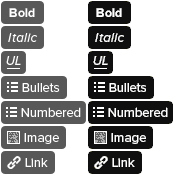
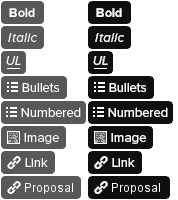
CKEditor plugin for proposal links

diff --git a/hooks/climatecolab-hooks/src/main/webapp/WEB-INF/jsps/html/js/editor/ckeditor_old/skins/colab/editor.css b/hooks/climatecolab-hooks/src/main/webapp/WEB-INF/jsps/html/js/editor/ckeditor_old/skins/colab/editor.css
@@ -12,3 +12,4 @@ For licensing, see LICENSE.html or http://ckeditor.com/license
 .cke_skin_colab .cke_button_selectAll .cke_icon{background-position:0 -272px;}.cke_skin_colab .cke_button_removeFormat .cke_icon{background-position:0 -288px;}.cke_skin_colab .cke_button_bold .cke_icon{background-position: 0px 0px; width: 45px;}.cke_skin_colab .cke_button_italic .cke_icon{background-position: 0px -25px; width: 45px;}.cke_skin_colab .cke_button_underline .cke_icon{background-position: 0px -50px; width: 27px;}.cke_skin_colab .cke_button_strike .cke_icon{background-position:0 -352px;}.cke_skin_colab .cke_button_subscript .cke_icon{background-position:0 -368px;}.cke_skin_colab .cke_button_superscript .cke_icon{background-position:0 -384px;}.cke_skin_colab .cke_button_table .cke_icon{background-position:0 -608px;}.cke_skin_colab .cke_button_horizontalrule .cke_icon{background-position:0 -624px;}.cke_skin_colab .cke_button_smiley .cke_icon{background-position:0 -640px;}.cke_skin_colab .cke_button_link .cke_icon{background-position: 0px -150px; width: 56px;}.cke_skin_colab .cke_button_unlink .cke_icon{background-position:0 -544px;}.cke_skin_colab .cke_button_anchor .cke_icon{background-position:0 -560px;}.cke_skin_colab .cke_button_image .cke_icon{background-position: 0px -125px; width: 67px;}.cke_skin_colab .cke_button_flash .cke_icon{background-position:0 -592px;}.cke_skin_colab .cke_button_specialchar .cke_icon{background-position:0 -656px;}.cke_skin_colab .cke_button_pagebreak .cke_icon{background-position:0 -672px;}.cke_skin_colab .cke_button_print .cke_icon{background-position:0 -176px;}.cke_skin_colab .cke_button_checkspell .cke_icon,.cke_skin_colab .cke_button_scayt .cke_icon{background-position:0 -192px;}.cke_skin_colab .cke_button_pagebreak .cke_icon{background-position:0 -672px;}.cke_skin_colab .cke_button_textcolor .cke_icon{background-position:0 -704px;}.cke_skin_colab .cke_button_bgcolor .cke_icon{background-position:0 -720px;}.cke_skin_colab .cke_button_form .cke_icon{background-position:0 -752px;}.cke_skin_colab .cke_button_checkbox .cke_icon{background-position:0 -768px;}.cke_skin_colab .cke_button_radio .cke_icon{background-position:0 -784px;}.cke_skin_colab .cke_button_textfield .cke_icon{background-position:0 -800px;}.cke_skin_colab .cke_button_textarea .cke_icon{background-position:0 -816px;}.cke_skin_colab .cke_button_showblocks .cke_icon{background-position:0 -1136px;}.cke_skin_colab .cke_button_select .cke_icon{background-position:0 -832px;}.cke_skin_colab .cke_button_button .cke_icon{background-position:0 -848px;}.cke_skin_colab .cke_button_imagebutton .cke_icon{background-position:0 -864px;}.cke_skin_colab .cke_button_hiddenfield .cke_icon{background-position:0 -880px;}.cke_skin_colab .cke_button_undo .cke_icon{background-position:0 -208px;}.cke_skin_colab .cke_rtl .cke_button_undo .cke_icon{background-position:0 -224px;}.cke_skin_colab .cke_button_redo .cke_icon{background-position:0 -224px;}.cke_skin_colab .cke_rtl .cke_button_redo .cke_icon{background-position:0 -208px;}.cke_skin_colab .cke_button_templates .cke_icon{background-position:0 -80px;}.cke_skin_colab .cke_button_numberedlist .cke_icon{background-position: 0px -100px; width: 87px;}.cke_skin_colab .cke_button_bulletedlist .cke_icon{background-position: 0px -75px; width: 68px;}.cke_skin_colab .cke_mixed_dir_content .cke_button_numberedlist .cke_icon{background-position:0 -1217px;}.cke_skin_colab .cke_mixed_dir_content .cke_button_bulletedlist .cke_icon{background-position:0 -1233px;}.cke_skin_colab .cke_button_outdent .cke_icon{background-position:0 -432px;}.cke_skin_colab .cke_button_indent .cke_icon{background-position:0 -448px;}.cke_skin_colab .cke_mixed_dir_content .cke_button_indent .cke_icon{background-position:0 -1265px;}.cke_skin_colab .cke_mixed_dir_content .cke_button_outdent .cke_icon{background-position:0 -1249px;}.cke_skin_colab .cke_button_justifyleft .cke_icon{background-position:0 -464px;}.cke_skin_colab .cke_button_justifycenter .cke_icon{background-position:0 -480px;}.cke_skin_colab .cke_button_justifyright .cke_icon{background-position:0 -496px;}.cke_skin_colab .cke_button_justifyblock .cke_icon{background-position:0 -512px;}.cke_skin_colab .cke_button_blockquote .cke_icon{background-position:0 -1152px;}.cke_skin_colab .cke_button_creatediv .cke_icon{background-position:0 -1168px;}
 .cke_skin_colab .cke_button_editdiv .cke_icon{background-position:0 -1184px;}.cke_skin_colab .cke_button_removediv .cke_icon{background-position:0 -1200px;}.cke_skin_colab .cke_button_flash .cke_icon{background-position:0 -592px;}.cke_skin_colab .cke_button_pastefromword .cke_icon{background-position:0 -160px;}.cke_skin_colab .cke_button_save .cke_icon{background-position:0 -32px;}.cke_skin_colab .cke_button_about .cke_icon{background-position:0 -736px;}.cke_skin_colab .cke_button_maximize .cke_icon{background-position:0 -1040px;}.cke_skin_colab .cke_button_editdiv .cke_icon{background-position:0 -1184px;}.cke_skin_colab .cke_button_bidirtl .cke_icon{background-position:0 -1072px;}.cke_skin_colab .cke_button_bidiltr .cke_icon{background-position:0 -1056px;}.cke_skin_colab .cke_button_iframe .cke_icon{background-position:0 -1279px;}.cke_skin_colab .cke_button_source .cke_label{display:inline;}.cke_skin_colab .cke_styles_panel{width:150px;height:170px;}.cke_skin_colab .cke_format_panel{width:150px;height:170px;}.cke_skin_colab .cke_font_panel{width:150px;height:170px;}.cke_skin_colab .cke_fontSize_panel{height:170px;}.cke_skin_colab .cke_fontSize .cke_text{width:25px;}.cke_skin_colab .cke_browser_iequirks .cke_fontSize .cke_text{width:32px;}html .cke_skin_colab{visibility:inherit;}html.cke_skin_colab_container{visibility:visible;}
 .cke_skin_colab .cke_editor .cke_toolbar {display: none;} .cke_skin_colab .cke_focus .cke_editor .cke_toolbar {display: block;}
+.cke_skin_colab .cke_button_proposalLink .cke_icon{background-position: 0px -175px; width: 83px;}

diff --git a/portlets/proposals-portlet/src/main/webapp/js/proposalPicker.js b/portlets/proposals-portlet/src/main/webapp/js/proposalPicker.js
@@ -119,13 +119,25 @@ function removePickedProposal(sectionId,proposalId,element, multipleProposals){
 function addToProposalPickerTable(data, even){
     // get ID's for highlighting
     var inputField = $("input[name='sectionsContent[" + currentSectionId + "]']");
-    var highlight = ($.inArray(data.id.toString(), inputField.val().split(','))>=0);
+    var highlight = false;
+    if (inputField.length > 0) {
+    	highlight = ($.inArray(data.id.toString(), inputField.val().split(','))>=0);
+    	
+    }
     var displayDate = (data.dateSubscribed != 0);
     var link = '<a href="javascript:;" class="selectProposalLink">choose</a>';
     var dateCol = '<td>' + dateTimeFormatter.date(data.dateSubscribed) + '</td>';
     var tableRow = $('<tr class="' + (even ? ' ui-datatable-even' : ' ui-datatable-odd') + (highlight ? ' ui-datatable-highlight' : '') + '"><td>' + data.contestName + '</td><td' + (displayDate ? '' : ' colspan="2"') + '>' + data.proposalName + '</td>' + (displayDate ? dateCol : '') + '<td style="text-align: center;">' + (highlight ? '' : link) + '</td></tr>');
     
     tableRow.find(".selectProposalLink").click(function() {
+    	var event = jQuery.Event("proposalPicker_proposalSelected", {
+    		contestId: data.contestId,
+    		proposalId: data.id, 
+    		proposalName: data.proposalName,  
+    		contestName: data.contestName,
+    		sectionId: currentSectionId});
+    	
+    	jQuery(document).trigger(event);
     	selectProposal(data.id, data.proposalName,  data.contestName ,$(this),data.contestId);
     });
     $('#proposalPickerTable > tbody').append(tableRow);

diff --git a/hooks/climatecolab-hooks/src/main/webapp/WEB-INF/jsps/html/js/editor/ckeditor_old/plugins/proposalLink/plugin.js b/hooks/climatecolab-hooks/src/main/webapp/WEB-INF/jsps/html/js/editor/ckeditor_old/plugins/proposalLink/plugin.js
@@ -1,0 +1,46 @@
+CKEDITOR.plugins.add( 'proposalLink', {
+    icons: 'proposalLink',
+    init: function( editor ) {
+
+    	var sectionContainer = null;//jQuery(editor.container.$).parents('.addpropbox');
+    	var sectionId = null;
+    	
+    	jQuery(document).on("proposalPicker_proposalSelected", function(event) {
+    		if (event.sectionId != sectionId) {
+    			return;
+    		}
+    		var host = window.location.toString();
+    		host = host.substring(0, host.indexOf("/web/guest"));
+    		
+    		var proposalLinkHtml = [];
+    		proposalLinkHtml.push("<a href=\"");
+    		proposalLinkHtml.push(host);
+    		proposalLinkHtml.push("/web/guest/plans/-/plans/contestId/");
+    		proposalLinkHtml.push(event.contestId);
+    		proposalLinkHtml.push("/planId/");
+    		proposalLinkHtml.push(event.proposalId);
+    		proposalLinkHtml.push("\" class=\"proposalLink\">");
+    		proposalLinkHtml.push(event.proposalName);
+    		proposalLinkHtml.push("</a>");
+    		
+    		editor.insertHtml(proposalLinkHtml.join(""));
+    	});
+    	
+    	editor.ui.addButton( 'ProposalLink', {
+    	    label: 'Proposal link',
+    	    command: 'proposalLink',
+    	    toolbar: 'insert'
+    	});
+    	
+    	editor.addCommand( 'proposalLink', new CKEDITOR.command( editor, {
+    	    exec: function( editor ) {
+    	    	sectionContainer = jQuery(editor.container.$).parents('.addpropbox');
+    	    	sectionId = sectionContainer.attr("data-section-id");
+    	    	
+    	    	pickProposal(sectionId);
+    	    }}));
+    	
+    },
+    
+    
+});

diff --git a/hooks/climatecolab-hooks/src/main/webapp/WEB-INF/jsps/html/js/editor/ckeditor_old/config.js b/hooks/climatecolab-hooks/src/main/webapp/WEB-INF/jsps/html/js/editor/ckeditor_old/config.js
@@ -12,14 +12,14 @@ CKEDITOR.editorConfig = function( config )
      
     config.toolbar_Colab =
     [
-        { name: 'controls', items : [ 'Bold', 'Italic', 'Underline','NumberedList', 'BulletedList', 'Link', 'Image' ] }
+        { name: 'controls', items : [ 'ProposalLink', 'Bold', 'Italic', 'Underline','NumberedList', 'BulletedList', 'Link', 'Image'] }
     ];
     config.toolbar = 'Colab';
     config.skin = "colab";
     config.toolbarCanCollapse = false;
     config.contentsCss = '/climatecolab-theme/css/style.css';
     config.resize_enabled = 'true';
-    config.extraPlugins = 'resize';
+    config.extraPlugins = 'resize,proposalLink';
 };
 CKEDITOR.pasteFilterConfig = {
 };
